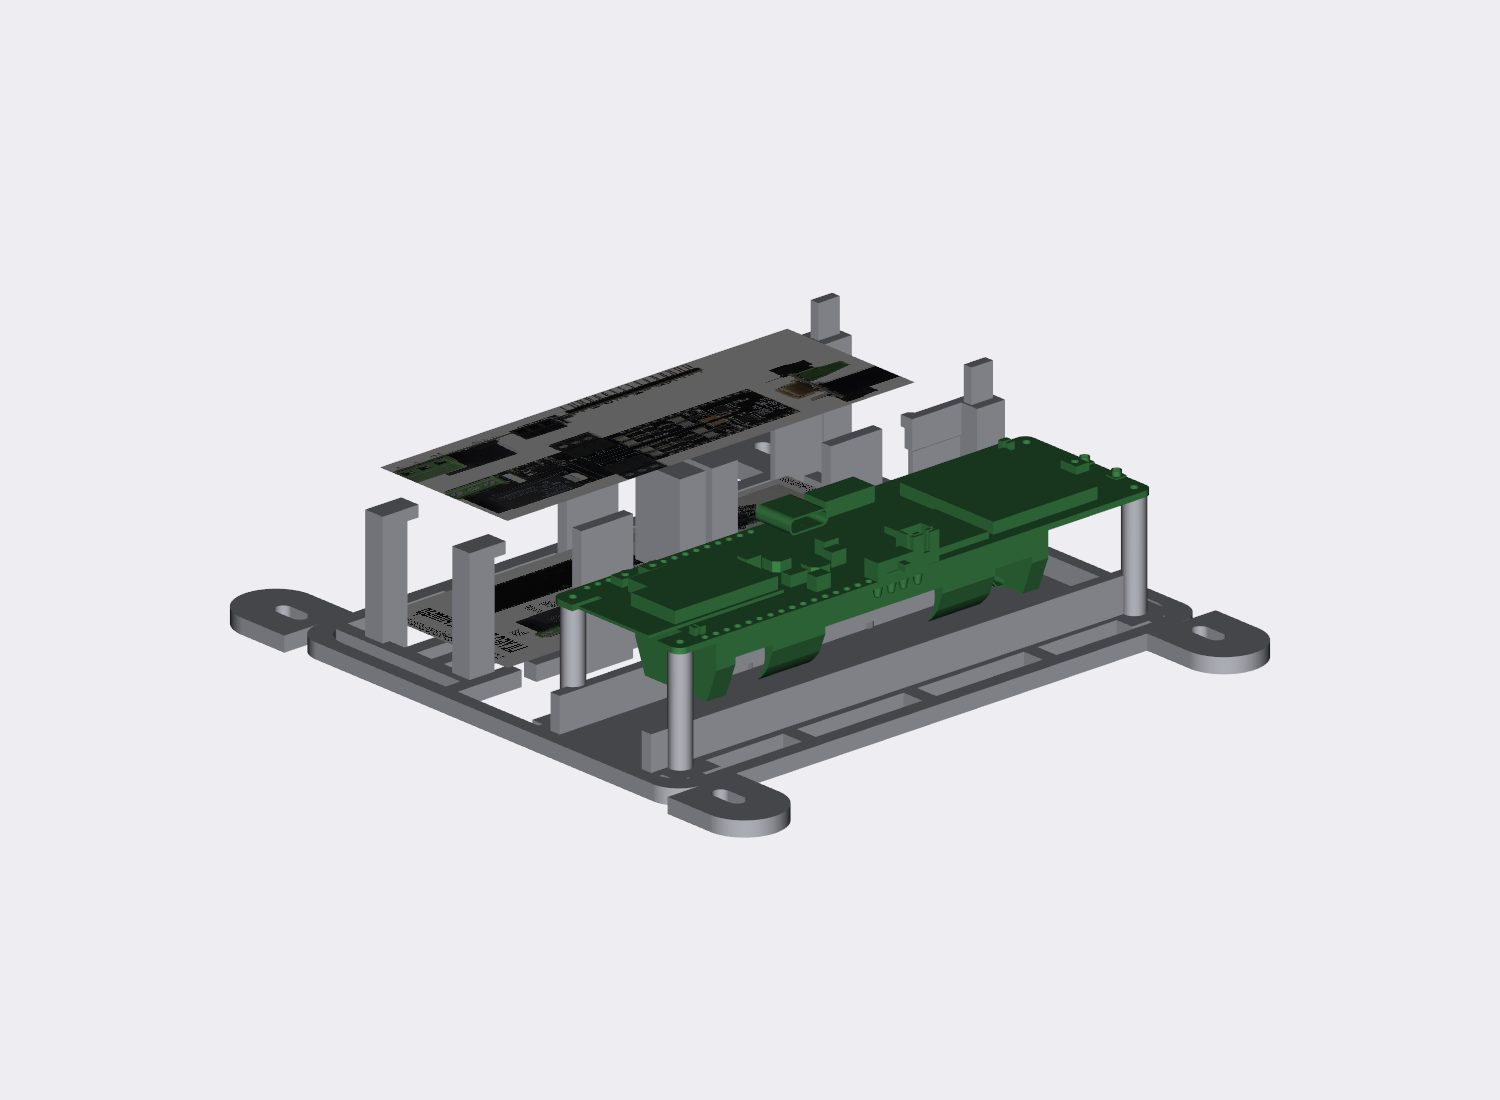
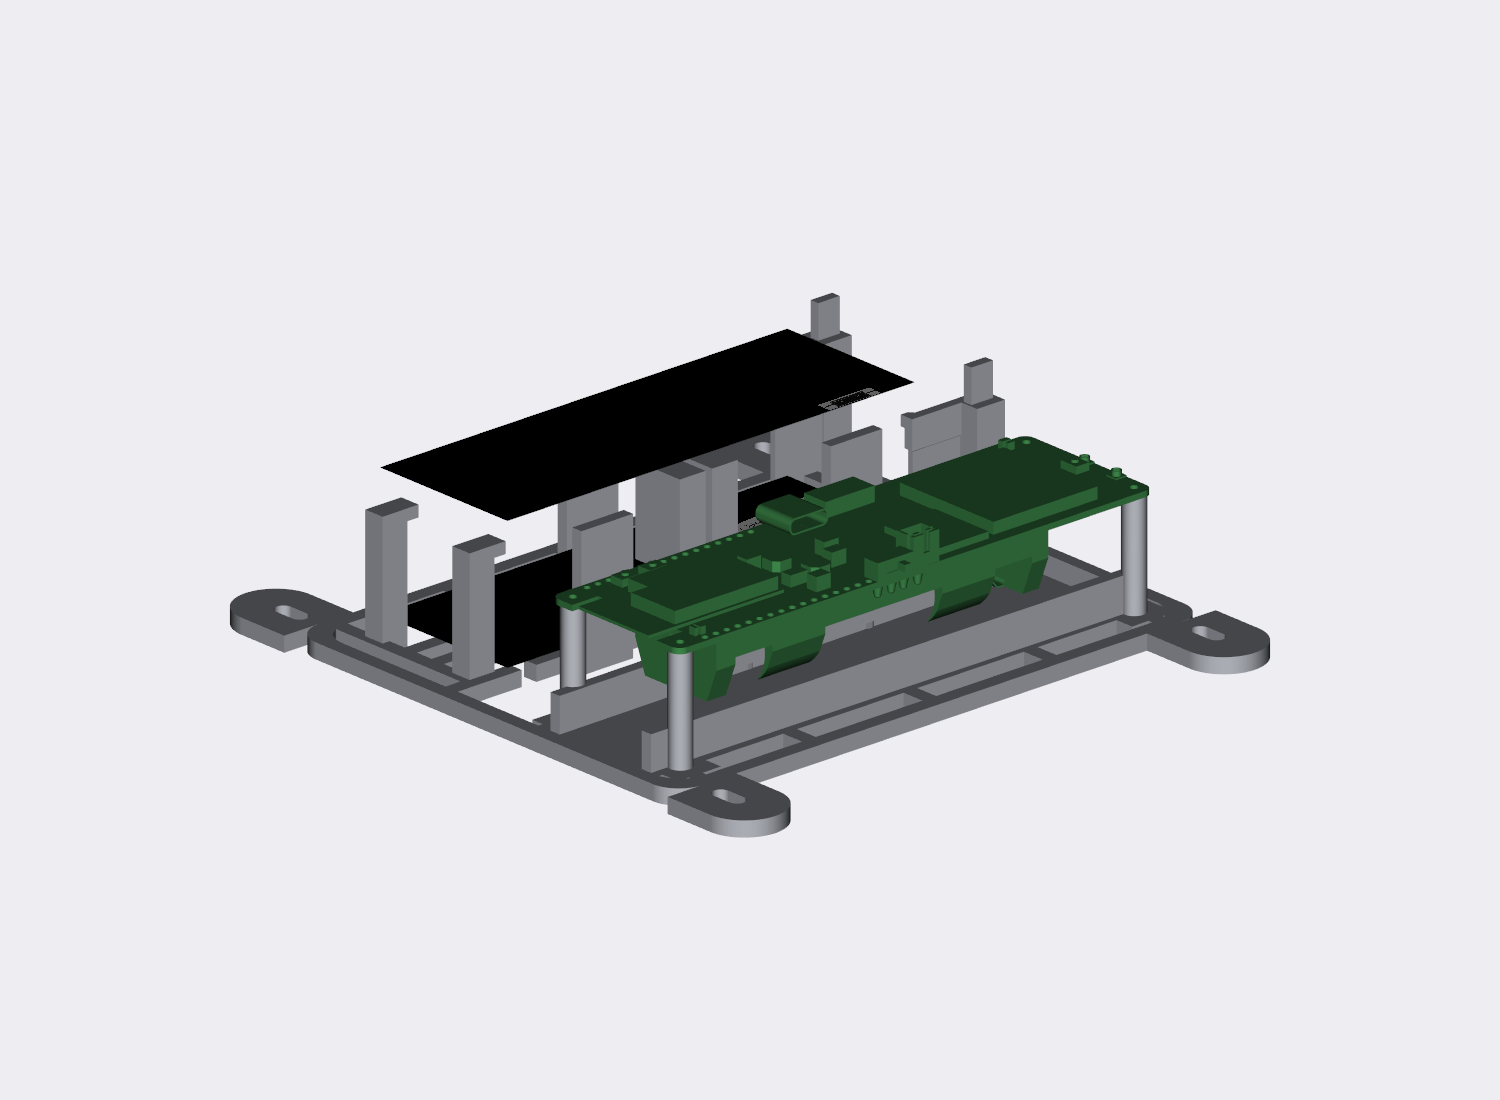
feat: fiducial-mapped photo textures — 6-view sheet decoded, perspective-rectified
- H559_8.jpg re-analyzed per user: it is a SIX-view contact sheet (4
  end-on corners + top face + under face); center-bottom cell holds TWO
  boards side-by-side (left-center/right-center views)
- scripts/orient_photos.py: downloads photos, segments the sheet,
  perspective-rectifies each face view via 4-point corner homography to
  the true 33:94.8 aspect, then picks one of 8 orientations by fiducial
  scoring against CAD truth (silver header sockets at the far end;
  green terminal tiebreak). Dark-blob 'relay' detection removed -
  black-on-black (measured dark centroid = 0.500/0.500 = the board,
  the signature of a dead fiducial)
- Verified: 100% of silver rows land in the top-40% band on both faces
  (sockets at far end, correct end-up orientation); evidence in
  analysis/hybrid_fiducials.json incl. honest per-face caveats
- make_hybrid consumes the oriented textures (no flip when fiducial
  textures present); turntable bumped to 300 frames @1440x900
- scipy added (connected-component board isolation; pip-audit clean)
- AGENTS.md lessons 28-30: contact-sheet segmentation, black-PCB
  fiducial limits + silver/green strategy, perspective rectification
  and the texture-orientation convention

Changed region(s): [[0.2453, 0.2782, 0.6133, 0.6182], [0.4907, 0.4327, 0.552, 0.4945]]

diff --git a/scripts/orient_photos.py b/scripts/orient_photos.py
@@ -1,0 +1,212 @@
+#!/usr/bin/env python3
+"""Fiducial-based photo-to-CAD orientation resolver for the T-SimHat.
+
+The H559_8 contact sheet holds 6 views (4 end-on corners + top face +
+under face). For each FACE view we crop the PCB and choose one of 8
+orientations (4 rotations x mirror) by scoring landmark placement against
+CAD truth on the flipped board (carrier u rightward, v from clip end):
+
+  component (relay) face, which points DOWN on the carrier:
+    - green terminal block centroid: u ~ -10.8, v ~ 7.9 (left, near clips)
+    - relay (dark mass) centroid:    u ~ +8.3, v ~ 17.9 (right, mid-near)
+  socket (solder) face, which points UP on the carrier:
+    - two silver socket rows occupy u ~ +/-15, v 54..94.7 (far half)
+
+Writes the oriented textures to /tmp/opencode/tex_{down,up}.png plus a
+landmark evidence JSON to analysis/hybrid_fiducials.json.
+"""
+
+from __future__ import annotations
+
+import json
+import os
+import sys
+
+import numpy as np
+from PIL import Image
+
+ROOT = os.path.dirname(os.path.dirname(os.path.abspath(__file__)))
+sys.path.insert(0, ROOT)
+os.chdir(ROOT)
+
+from cad.parameters import Measured as M
+
+SHEET = "/tmp/opencode/H559_8_full.jpg"
+FRONT = "/tmp/opencode/T-SimHat.jpg"
+PHOTO_URLS = {
+    FRONT: "https://lilygo.cc/cdn/shop/products/T-SimHat.jpg?v=1657769776&width=1206",
+    SHEET: "https://lilygo.cc/cdn/shop/products/H559_8.jpg?v=1657769774&width=1946",
+}
+FACE_CELLS = {"CT": "down", "CB": "up"}
+TRANSFORMS = ["", "FLIP_LEFT_RIGHT", "FLIP_TOP_BOTTOM", "ROTATE_180",
+              "ROTATE_90", "ROTATE_270", "TRANSPOSE", "TRANSPOSE_FLIP"]
+
+
+def fetch_photos():
+    import urllib.request
+    for path, url in PHOTO_URLS.items():
+        if not os.path.exists(path):
+            urllib.request.urlretrieve(url, path)
+
+
+def largest_dark_region_mask(mask):
+    """Keep the largest 8-connected dark component (drops inset modules,
+    logos, background junk)."""
+    from scipy import ndimage
+    lab, n = ndimage.label(mask)
+    if n <= 1:
+        return mask
+    sizes = ndimage.sum(mask, lab, range(1, n + 1))
+    return lab == (int(np.argmax(sizes)) + 1)
+
+
+def board_corners(mask):
+    """Four extreme-sum/difference points of the dark mask = perspective
+    quadrilateral corners for a near-axis photo of a rectangle."""
+    ys, xs = np.where(mask)
+    s = xs + ys
+    d = xs - ys
+    pts = {
+        "tl": (xs[np.argmin(s)], ys[np.argmin(s)]),
+        "br": (xs[np.argmax(s)], ys[np.argmax(s)]),
+        "tr": (xs[np.argmax(d)], ys[np.argmax(d)]),
+        "bl": (xs[np.argmin(d)], ys[np.argmin(d)]),
+    }
+    return pts
+
+
+def find_coeffs(target, source):
+    A = []
+    for (tx, ty), (sx, sy) in zip(target, source):
+        A.append([sx, sy, 1, 0, 0, 0, -tx * sx, -tx * sy])
+        A.append([0, 0, 0, sx, sy, 1, -ty * sx, -ty * sy])
+    A = np.array(A, dtype=np.float64)
+    b = np.array([c for pt in target for c in pt], dtype=np.float64).reshape(-1)
+    x = np.linalg.lstsq(A, b, rcond=None)[0]
+    return x
+
+
+def rectify_perspective(img, dark_thresh=110, out_w=660, out_h=1896):
+    """Perspective-rectify the photographed PCB to its true 33:94.8
+    aspect using detected board corners. Returns image + corner points."""
+    a = np.asarray(img.convert("RGB")).astype(float)
+    lum = a.mean(axis=2)
+    mask = lum < dark_thresh
+    mask = largest_dark_region_mask(mask)
+    pts = board_corners(mask)
+    src = [pts["tl"], pts["tr"], pts["br"], pts["bl"]]
+    dst = [(0, 0), (out_w - 1, 0), (out_w - 1, out_h - 1), (0, out_h - 1)]
+    coeffs = find_coeffs(dst, src)
+    return img.transform((out_w, out_h), Image.PERSPECTIVE, coeffs,
+                         resample=Image.BICUBIC), pts
+
+
+def crop_board(img, dark_thresh=110):
+    a = np.asarray(img.convert("RGB")).astype(float)
+    lum = a.mean(axis=2)
+    mask = largest_dark_region_mask(lum < dark_thresh)
+    rows = np.where(mask.any(axis=1))[0]
+    cols = np.where(mask.any(axis=0))[0]
+    if len(rows) == 0:
+        return None, None
+    box = (int(cols[0]), int(rows[0]), int(cols[-1] + 1), int(rows[-1] + 1))
+    return img.crop(box), box
+
+
+def landmarks(arr):
+    r, g, b = arr[..., 0], arr[..., 1], arr[..., 2]
+    lum = arr.mean(axis=2)
+    green = (g > 80) & (g > r + 25) & (g > b + 25)
+    silver = (arr.min(axis=2) > 120) & (arr.max(axis=2) - arr.min(axis=2) < 60)
+    dark = lum < 55
+    H, W = lum.shape
+    out = {}
+    for name, m in (("green", green), ("silver", silver), ("dark", dark)):
+        n = m.sum()
+        if n < 30:
+            out[name] = None
+            continue
+        ys, xs = np.where(m)
+        out[name] = {"n": int(n),
+                     "cu": float(xs.mean() / W), "cv": float(ys.mean() / H)}
+    return out
+
+
+def score_down(lm):
+    """Component face. Texture convention: image top = far/socket end
+    (v 94.8), image bottom = clip end (v 0), left = u -16.5.
+    Strongest fiducial: the 2x16 header sockets at the far half ->
+    silver centroid ~(0.5, 0.21). Tiebreak: green terminal bottom-left
+    (0.17, 0.9); relay is black-on-black and NOT usable as a threshold
+    fiducial (whole PCB is black)."""
+    if not lm["silver"]:
+        return -1e9
+    su, sv = lm["silver"]["cu"], lm["silver"]["cv"]
+    s = -(abs(sv - 0.21) * 5.0 + abs(su - 0.5) * 2.0)
+    if lm["green"]:
+        s -= abs(lm["green"]["cv"] - 0.917) * 1.0
+        s -= abs(lm["green"]["cu"] - 0.174) * 1.0
+    return s
+
+
+def score_up(lm):
+    """Socket face, same convention: socket solder/pin rows occupy the
+    far half at u ~ +/-15 -> silver centroid (0.5, 0.22)."""
+    if not lm["silver"]:
+        return -1e9
+    su, sv = lm["silver"]["cu"], lm["silver"]["cv"]
+    return -(abs(sv - 0.22) * 5.0 + abs(su - 0.5) * 2.0)
+
+
+def apply_transform(img, t):
+    if t == "":
+        return img
+    if t == "TRANSPOSE_FLIP":
+        return img.transpose(Image.TRANSPOSE).transpose(Image.ROTATE_180)
+    return img.transpose(getattr(Image, t))
+
+
+def main():
+    fetch_photos()
+    sheet = Image.open(SHEET).convert("RGB")
+    cb_cell = sheet.crop((187, 287, 800, 929))
+    cb_right = cb_cell.crop((cb_cell.width // 2 + 10, 0, cb_cell.width,
+                             cb_cell.height))
+    sources = {
+        "down": Image.open("/tmp/opencode/T-SimHat.jpg").convert("RGB"),
+        "up": cb_right,
+    }
+    report = {}
+    for face, img in sources.items():
+        rect, corner_pts = rectify_perspective(img)
+        best = None
+        for t in TRANSFORMS:
+            tex = apply_transform(rect, t)
+            lm = landmarks(np.asarray(tex).astype(float))
+            s = score_down(lm) if face == "down" else score_up(lm)
+            if best is None or s > best[0]:
+                best = (s, t, lm)
+        s, t, lm = best
+        tex = apply_transform(rect, t)
+        out = f"/tmp/opencode/tex_{face}.png"
+        tex.save(out)
+        report[face] = {
+            "source": ("T-SimHat.jpg (largest dark region)"
+                       if face == "down" else "H559_8 CB right half (under)"),
+            "perspective_corners_tl_tr_br_bl": [[int(v) for v in corner_pts[k]]
+                                                for k in ("tl", "tr", "br", "bl")],
+            "chosen_transform": t, "score": round(s, 3),
+            "landmarks_cu_cv_n": {k: (None if v is None else
+                                      (round(v["cu"], 2), round(v["cv"], 2), v["n"]))
+                                  for k, v in lm.items()},
+            "target_aspect_w_over_h": round(M.simhat_pcb_w / M.simhat_pcb_l, 4),
+            "rectified_px": [tex.width, tex.height],
+        }
+        print(f"{face}: {t} score={s:.3f} landmarks={report[face]['landmarks_cu_cv_n']}")
+    with open("analysis/hybrid_fiducials.json", "w") as f:
+        json.dump(report, f, indent=2)
+    print("wrote analysis/hybrid_fiducials.json + textures")
+
+
+if __name__ == "__main__":
+    main()

diff --git a/scripts/make_hybrid.py b/scripts/make_hybrid.py
@@ -144,7 +144,7 @@ def main():
     # Product photos have +Y_up board; on the carrier the board is flipped
     # about Y, which mirrors X -> flip_u aligns left/right features.
     low_face = plane_mesh(f["w"], f["h"], front, f["z_down"],
-                          f["cx"], f["cy"], flip_u=True)
+                          f["cx"], f["cy"], flip_u=globals().get("ORIENT_FLIPS",(True,False))[0])
     up_face = plane_mesh(f["w"], f["h"], back, f["z_up"],
                          f["cx"], f["cy"], flip_u=False)
     scene.add_geometry(low_face, node_name="simhat_front_photo")
@@ -236,8 +236,10 @@ def build_photo_scene():
         ren.AddActor(actor)
 
     f = simhat_faces()
-    for z, img, flip in ((f["z_down"], front_img_holder[0], True),
-                         (f["z_up"], back_img_holder[0], False)):
+    for z, img, flip in ((f["z_down"], front_img_holder[0],
+                         globals().get("ORIENT_FLIPS",(True,False))[0]),
+                        (f["z_up"], back_img_holder[0],
+                         globals().get("ORIENT_FLIPS",(True,False))[1])):
         pd = textured_plane(f["cx"], f["cy"], z, f["w"], f["h"], img, flip)
         mapper = vtk.vtkPolyDataMapper()
         mapper.SetInputData(pd)
@@ -331,12 +333,26 @@ def render_turntable(out_path, frames=240, fps=30, size=(1280, 800)):
 front_img_holder = []
 back_img_holder = []
 
+
+def _load_face_textures():
+    """Prefer fiducial-oriented textures from orient_photos.py; fall back
+    to raw crops (documented worse) when the /tmp artifacts are absent."""
+    down = "/tmp/opencode/tex_down.png"
+    up = "/tmp/opencode/tex_up.png"
+    if os.path.exists(down) and os.path.exists(up):
+        return Image.open(down), Image.open(up), False, False
+    f, _, _ = crop_dark_region(f"{PHOTO_DIR}/T-SimHat.jpg")
+    b, _, _ = crop_dark_region(f"{PHOTO_DIR}/H559_8.jpg",
+                               split_boards=True)
+    return f, b, True, False
+
+
 if __name__ == "__main__":
-    front_img, _, _ = crop_dark_region(f"{PHOTO_DIR}/T-SimHat.jpg")
-    back_img, _, _ = crop_dark_region(f"{PHOTO_DIR}/H559_8.jpg",
-                                      split_boards=True)
+    front_img, back_img, flip_d, flip_u = _load_face_textures()
     front_img_holder.append(front_img)
     back_img_holder.append(back_img)
+    ORIENT_FLIPS = (flip_d, flip_u)
     main()
     if "--video" in sys.argv:
-        render_turntable("exports/hybrid_turntable.mp4")
+        render_turntable("exports/hybrid_turntable.mp4", frames=300, fps=30,
+                         size=(1440, 900))

diff --git a/AGENTS.md b/AGENTS.md
@@ -144,6 +144,28 @@ the next board-carrier project. Review this file before extending the CAD.
     Download at full width; vision on downscaled images misreads part
     numbers — cross-check model markings across multiple photos.
 
+28. **Marketing contact sheets are grids of MULTIPLE views — segment
+    before any analysis.** H559_8 contains 6 views; the center-bottom
+    cell itself holds two boards side by side. Threshold-based gap scans
+    must run per-region (weak gaps hide behind tall neighbors), and the
+    "largest dark region" must be taken per CELL, or the crop silently
+    blends two photos.
+29. **Black PCBs defeat luminance fiducials.** A relay on a black board
+    is invisible to dark-blob detection (dark centroid = board centroid,
+    exactly 0.5/0.5 — that signature means your fiducial is measuring the
+    board, not a part). Usable threshold fiducials on this class of
+    board: silver header sockets (huge pixel count, known v-band), green
+    terminal blocks (weak but present). Score orientation with silver
+    primary, green tiebreak, and verify by row-profile (100 % of silver
+    rows in the expected 40 % band).
+30. **Perspective-rectify photos before planar texture mapping.** A
+    4-point corner quad (extreme x+y / x-y points of the board mask) ->
+    lstsq homography -> Image.PERSPECTIVE to the true PCB aspect removes
+    marketing-shot foreshortening. Document the texture orientation
+    convention in one place (here: image top = far/socket end, left =
+    u-negative) and make every scorer use it — a cv measured from the
+    wrong edge silently inverts every target.
+
 ## Design rules specific to this carrier
 
 - A7670 holes are Ø1.73 → M1.6 only. Standoff height is battery-driven
